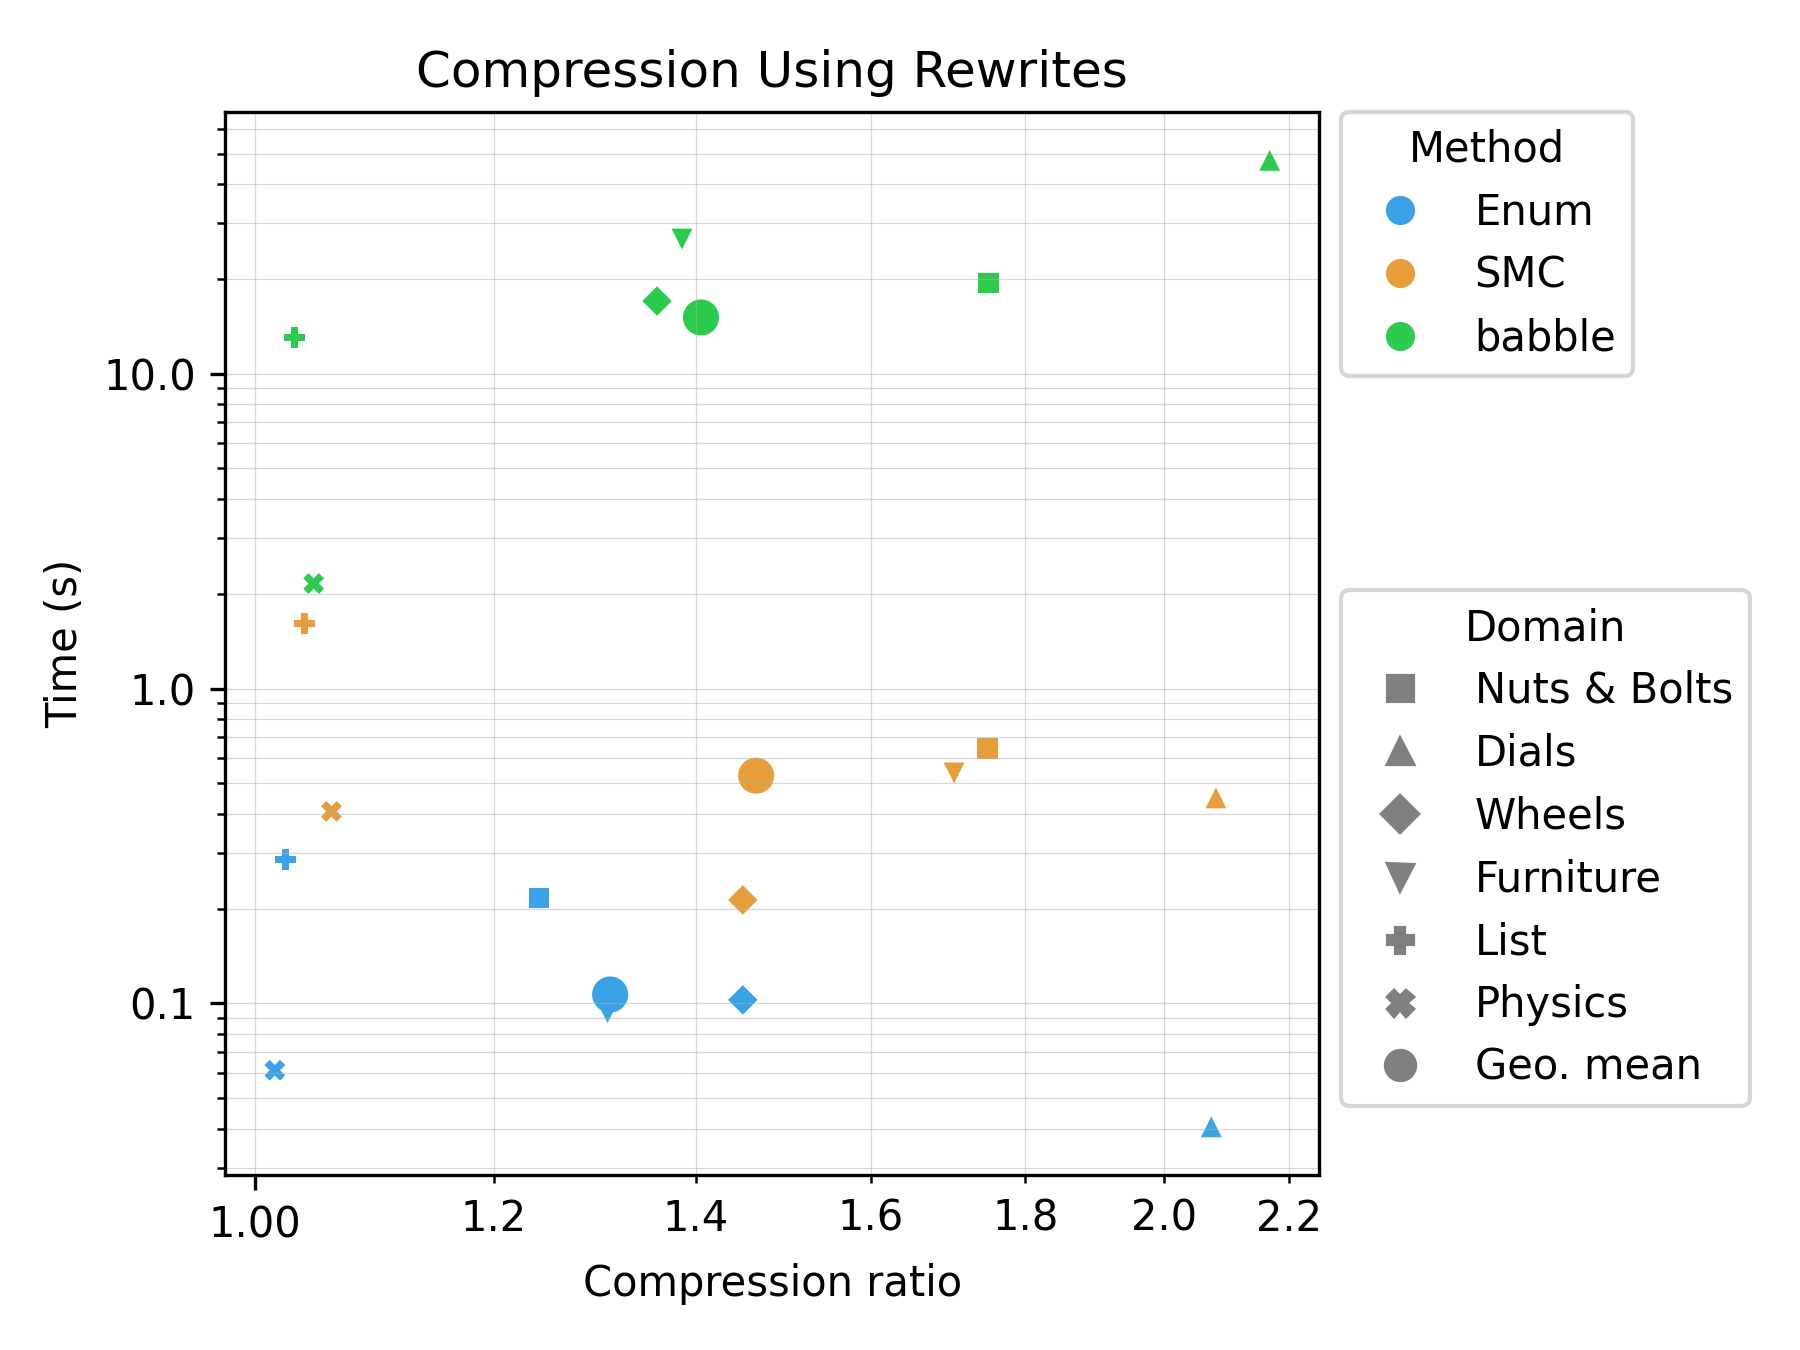
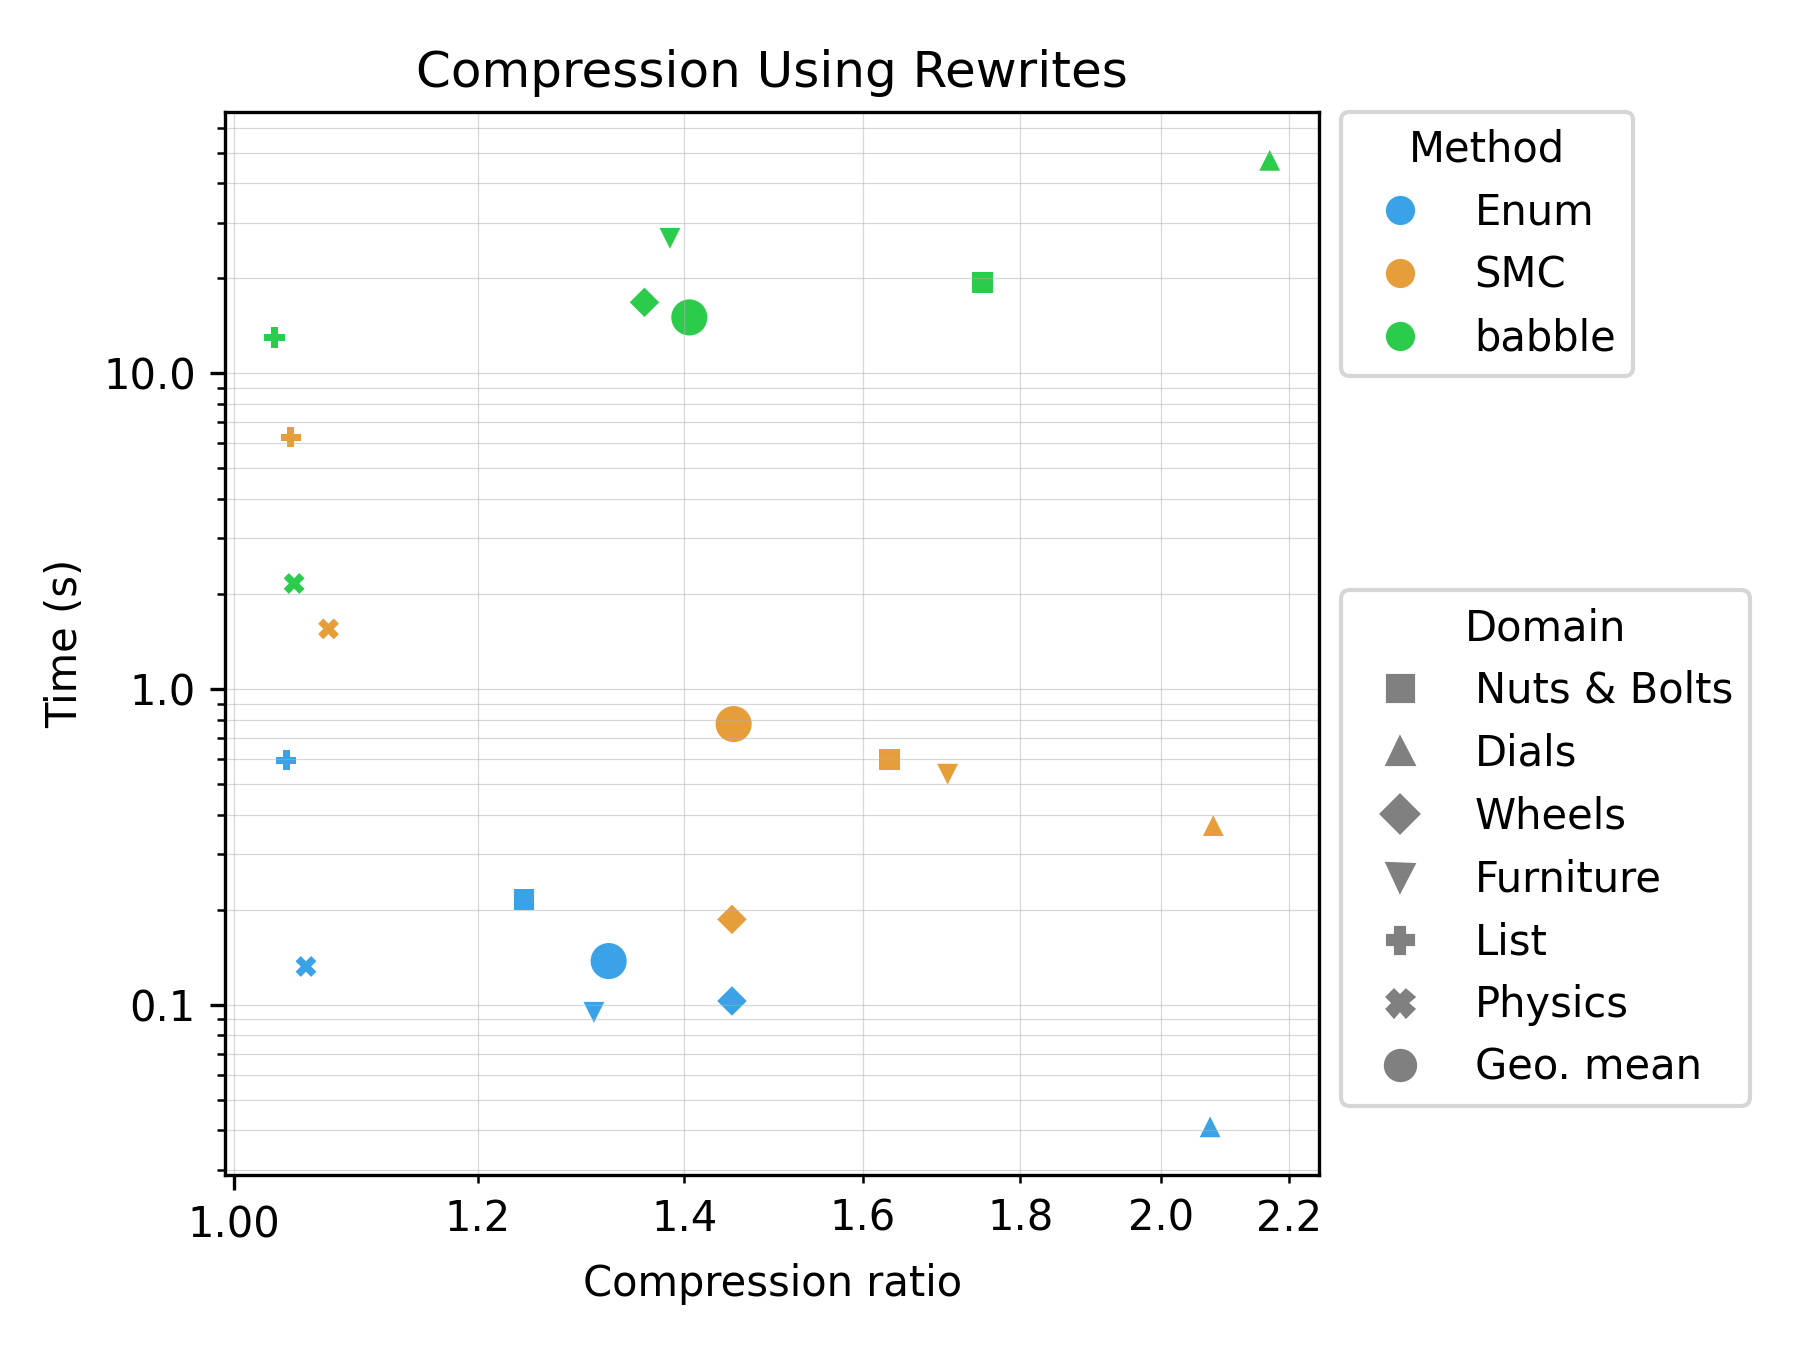
update tables

diff --git a/figures/table4.tex b/figures/table4.tex
@@ -1,4 +1,4 @@
-% source: /home/kavi/mit/egg-stitch/viz/results/table4/2026-05-10_19-51-56/table4.json
+% source: /home/kavi/mit/egg-stitch/viz/results/table4/2026-05-11_13-21-48/table4.json
 % Compression Without Rewrites, Stacked Abstractions: generated from results JSON
 \begin{tabular}{l r  rrrr rrrr}
 \toprule
@@ -6,16 +6,16 @@
 \cmidrule(lr){2-2} \cmidrule(lr){3-6} \cmidrule(lr){7-10}
 Domain & Original & Enum & SMC & babble & Stitch & Enum & SMC & babble & Stitch \\
 \midrule
-Nuts \& Bolts & 19008 & 1.66 & 13.70 & 9.40 & \textbf{14.86} & 0.801 & 1.960 & 14.235 & \textbf{0.098} \\
-Dials & 35712 & 5.17 & 6.27 & 5.62 & \textbf{7.94} & 0.731 & 5.737 & 77.206 & \textbf{0.462} \\
-Wheels & 35426 & 2.90 & \textbf{6.58} & 5.56 & 6.17 & 2.552 & 8.998 & 63.126 & \textbf{0.419} \\
-Furniture & 42935 & 3.26 & 6.21 & 4.02 & \textbf{6.64} & 1.792 & 11.160 & 128.018 & \textbf{0.586} \\
-List & 35621 & 1.05 & \textbf{1.15} & 1.09 & 1.14 & 1.944 & 20.561 & 154.953 & \textbf{1.247} \\
-Physics & 9387 & 1.05 & 1.39 & \textbf{1.43} & 1.37 & \textbf{0.152} & 5.326 & 13.322 & 0.278 \\
-Text & 29936 & 1.04 & \textbf{1.34} & 1.24 & 1.34 & 1.069 & 17.457 & 86.838 & \textbf{0.787} \\
-Logo & 11216 & 1.43 & \textbf{1.62} & 1.37 & 1.52 & 0.876 & 5.479 & 51.581 & \textbf{0.318} \\
-Towers & 9538 & 1.27 & \textbf{1.61} & 1.42 & 1.56 & 0.683 & 5.312 & 23.367 & \textbf{0.217} \\
+Nuts \& Bolts & 19008 & 1.66 & 13.58 & 9.40 & \textbf{14.86} & 0.802 & 2.072 & 14.136 & \textbf{0.098} \\
+Dials & 35712 & 5.17 & 6.30 & 5.62 & \textbf{7.94} & 0.724 & 5.824 & 76.335 & \textbf{0.450} \\
+Wheels & 35426 & 2.90 & \textbf{6.57} & 5.56 & 6.17 & 2.535 & 9.165 & 62.789 & \textbf{0.416} \\
+Furniture & 42935 & 3.26 & 6.29 & 4.02 & \textbf{6.64} & 1.768 & 10.935 & 127.143 & \textbf{0.585} \\
+List & 35621 & 1.12 & \textbf{1.15} & 1.09 & 1.14 & 5.141 & 81.618 & 154.130 & \textbf{1.244} \\
+Physics & 9387 & 1.27 & 1.41 & \textbf{1.43} & 1.37 & 1.032 & 20.729 & 13.127 & \textbf{0.273} \\
+Text & 29936 & 1.30 & \textbf{1.36} & 1.24 & 1.34 & 3.879 & 69.411 & 86.011 & \textbf{0.775} \\
+Logo & 11216 & 1.61 & \textbf{1.63} & 1.37 & 1.52 & 1.896 & 21.707 & 51.438 & \textbf{0.317} \\
+Towers & 9538 & 1.58 & \textbf{1.63} & 1.42 & 1.56 & 1.382 & 21.057 & 23.211 & \textbf{0.216} \\
 \midrule
-Geo. mean &  & 1.77 & 3.00 & 2.54 & \textbf{3.06} & 0.927 & 7.353 & 49.902 & \textbf{0.390} \\
+Geo. mean &  & 1.94 & 3.02 & 2.54 & \textbf{3.06} & 1.732 & 15.899 & 49.517 & \textbf{0.387} \\
 \bottomrule
 \end{tabular}

diff --git a/figures/table2.tex b/figures/table2.tex
@@ -1,4 +1,4 @@
-% source: /home/kavi/mit/egg-stitch/viz/results/table2/2026-05-10_18-08-52/table2.json
+% source: /home/kavi/mit/egg-stitch/viz/results/table2/2026-05-11_11-22-35/table2.json
 % Compression Without Rewrites: generated from results JSON
 \begin{tabular}{l r  rrrr rrrr}
 \toprule
@@ -6,16 +6,16 @@
 \cmidrule(lr){2-2} \cmidrule(lr){3-6} \cmidrule(lr){7-10}
 Domain & Original & Enum & SMC & babble & Stitch & Enum & SMC & babble & Stitch \\
 \midrule
-Nuts \& Bolts & 19008 & 1.29 & 1.68 & 1.67 & \textbf{1.77} & \textbf{0.035} & 0.138 & 3.659 & 0.044 \\
-Dials & 35712 & 1.22 & 1.23 & 1.26 & \textbf{1.26} & \textbf{0.066} & 0.255 & 18.165 & 0.108 \\
-Wheels & 35426 & 1.22 & \textbf{1.24} & 1.14 & \textbf{1.24} & \textbf{0.104} & 0.208 & 9.244 & 0.110 \\
-Furniture & 42935 & 1.15 & \textbf{1.38} & 1.25 & \textbf{1.38} & \textbf{0.112} & 0.639 & 22.910 & 0.150 \\
-List & 35621 & 1.02 & 1.04 & 1.03 & \textbf{1.04} & 0.248 & 1.420 & 12.260 & \textbf{0.199} \\
-Physics & 9387 & 1.02 & \textbf{1.05} & 1.04 & 1.04 & \textbf{0.050} & 0.370 & 1.570 & 0.055 \\
-Text & 29936 & 1.02 & 1.06 & 1.05 & \textbf{1.06} & 0.211 & 1.344 & 7.947 & \textbf{0.184} \\
-Logo & 11216 & 1.05 & 1.08 & 1.05 & \textbf{1.08} & 0.071 & 0.411 & 4.733 & \textbf{0.061} \\
-Towers & 9538 & 1.08 & 1.14 & 1.16 & \textbf{1.24} & 0.065 & 0.423 & 2.680 & \textbf{0.055} \\
+Nuts \& Bolts & 19008 & 1.29 & 1.68 & 1.67 & \textbf{1.77} & \textbf{0.035} & 0.136 & 3.659 & 0.044 \\
+Dials & 35712 & 1.22 & 1.23 & 1.26 & \textbf{1.26} & \textbf{0.068} & 0.246 & 18.486 & 0.112 \\
+Wheels & 35426 & 1.22 & \textbf{1.24} & 1.14 & \textbf{1.24} & \textbf{0.104} & 0.207 & 9.221 & 0.110 \\
+Furniture & 42935 & 1.15 & \textbf{1.38} & 1.25 & \textbf{1.38} & \textbf{0.111} & 0.626 & 22.853 & 0.152 \\
+List & 35621 & 1.04 & 1.04 & 1.03 & \textbf{1.04} & 0.531 & 5.623 & 12.255 & \textbf{0.202} \\
+Physics & 9387 & 1.05 & \textbf{1.06} & 1.04 & 1.04 & 0.108 & 1.444 & 1.576 & \textbf{0.055} \\
+Text & 29936 & 1.05 & \textbf{1.06} & 1.05 & 1.06 & 0.412 & 5.312 & 7.996 & \textbf{0.184} \\
+Logo & 11216 & \textbf{1.09} & 1.08 & 1.05 & 1.08 & 0.184 & 1.603 & 4.729 & \textbf{0.060} \\
+Towers & 9538 & 1.18 & 1.17 & 1.16 & \textbf{1.24} & 0.175 & 1.665 & 2.642 & \textbf{0.055} \\
 \midrule
-Geo. mean &  & 1.11 & 1.20 & 1.17 & \textbf{1.22} & \textbf{0.088} & 0.437 & 6.703 & 0.093 \\
+Geo. mean &  & 1.14 & 1.20 & 1.17 & \textbf{1.22} & 0.140 & 0.926 & 6.708 & \textbf{0.094} \\
 \bottomrule
 \end{tabular}

diff --git a/figures/table3.tex b/figures/table3.tex
@@ -1,4 +1,4 @@
-% source: /home/kavi/mit/egg-stitch/viz/results/table3/2026-05-10_18-24-44/table3.json
+% source: /home/kavi/mit/egg-stitch/viz/results/table3/2026-05-11_11-40-36/table3.json
 % Compression Using Rewrites, Stacked Abstractions: generated from results JSON
 \begin{tabular}{l r r rrrr rrrr}
 \toprule
@@ -6,13 +6,13 @@
 \cmidrule(lr){2-3} \cmidrule(lr){4-7} \cmidrule(lr){8-11}
 Domain & Original & E-graph min & Enum & SMC & babble & Stitch & Enum & SMC & babble & Stitch \\
 \midrule
-Nuts \& Bolts & 19008 & 19009 & 12.13 & \textbf{14.08} & 11.76 & N/A & \textbf{0.835} & 11.638 & 33.984 & N/A \\
-Dials & 35712 & 20583 & 6.96 & \textbf{9.15} & 8.37 & N/A & \textbf{0.484} & 4.675 & 71.971 & N/A \\
-Wheels & 35426 & 30257 & 1.91 & \textbf{8.07} & 6.68 & N/A & \textbf{1.145} & 6.952 & 63.205 & N/A \\
-Furniture & 42935 & 37028 & 3.33 & \textbf{6.65} & 4.40 & N/A & \textbf{1.551} & 11.003 & 102.981 & N/A \\
-List & 35621 & 35592 & 1.05 & \textbf{1.15} & 1.09 & N/A & \textbf{2.271} & 21.515 & 162.777 & N/A \\
-Physics & 9387 & 9405 & 1.06 & 1.40 & \textbf{1.42} & N/A & \textbf{0.203} & 5.669 & 17.451 & N/A \\
+Nuts \& Bolts & 19008 & 19009 & 12.13 & \textbf{14.04} & 11.76 & N/A & \textbf{0.830} & 11.376 & 34.008 & N/A \\
+Dials & 35712 & 20583 & 6.96 & \textbf{9.00} & 8.37 & N/A & \textbf{0.486} & 4.660 & 72.031 & N/A \\
+Wheels & 35426 & 30257 & 1.91 & \textbf{7.80} & 6.68 & N/A & \textbf{1.143} & 6.928 & 63.107 & N/A \\
+Furniture & 42935 & 37028 & 3.33 & \textbf{6.57} & 4.40 & N/A & \textbf{1.551} & 11.047 & 102.687 & N/A \\
+List & 35621 & 35592 & 1.12 & \textbf{1.16} & 1.09 & N/A & \textbf{5.782} & 85.097 & 162.375 & N/A \\
+Physics & 9387 & 9405 & 1.27 & 1.42 & \textbf{1.42} & N/A & \textbf{1.250} & 22.383 & 17.559 & N/A \\
 \midrule
-Geo. mean &  &  & 2.90 & \textbf{4.72} & 4.06 & N/A & \textbf{0.831} & 8.931 & 59.689 & N/A \\
+Geo. mean &  &  & 3.02 & \textbf{4.69} & 4.06 & N/A & \textbf{1.315} & 14.061 & 59.697 & N/A \\
 \bottomrule
 \end{tabular}

diff --git a/figures/table1.tex b/figures/table1.tex
@@ -1,4 +1,4 @@
-% source: /home/kavi/mit/egg-stitch/viz/results/table1/2026-05-10_17-46-36/table1.json
+% source: /home/kavi/mit/egg-stitch/viz/results/table1/2026-05-11_10-59-26/table1.json
 % Compression Using Rewrites: generated from results JSON
 \begin{tabular}{l r r rrrr rrrr}
 \toprule
@@ -6,13 +6,13 @@
 \cmidrule(lr){2-3} \cmidrule(lr){4-7} \cmidrule(lr){8-11}
 Domain & Original & E-graph min & Enum & SMC & babble & Stitch & Enum & SMC & babble & Stitch \\
 \midrule
-Nuts \& Bolts & 19008 & 19009 & 1.24 & 1.75 & \textbf{1.75} & N/A & \textbf{0.216} & 0.646 & 19.392 & N/A \\
-Dials & 35712 & 20583 & 2.07 & 2.08 & \textbf{2.17} & N/A & \textbf{0.041} & 0.450 & 47.570 & N/A \\
-Wheels & 35426 & 30257 & \textbf{1.45} & \textbf{1.45} & 1.36 & N/A & \textbf{0.103} & 0.213 & 16.998 & N/A \\
-Furniture & 42935 & 37028 & 1.31 & \textbf{1.70} & 1.39 & N/A & \textbf{0.094} & 0.539 & 26.745 & N/A \\
-List & 35621 & 35592 & 1.02 & \textbf{1.04} & 1.03 & N/A & \textbf{0.286} & 1.610 & 13.002 & N/A \\
-Physics & 9387 & 9405 & 1.02 & \textbf{1.06} & 1.05 & N/A & \textbf{0.061} & 0.407 & 2.156 & N/A \\
+Nuts \& Bolts & 19008 & 19009 & 1.24 & 1.63 & \textbf{1.75} & N/A & \textbf{0.215} & 0.599 & 19.376 & N/A \\
+Dials & 35712 & 20583 & 2.07 & 2.08 & \textbf{2.17} & N/A & \textbf{0.041} & 0.369 & 47.352 & N/A \\
+Wheels & 35426 & 30257 & \textbf{1.45} & \textbf{1.45} & 1.36 & N/A & \textbf{0.103} & 0.186 & 16.802 & N/A \\
+Furniture & 42935 & 37028 & 1.31 & \textbf{1.70} & 1.39 & N/A & \textbf{0.095} & 0.537 & 26.808 & N/A \\
+List & 35621 & 35592 & 1.04 & \textbf{1.04} & 1.03 & N/A & \textbf{0.596} & 6.289 & 13.017 & N/A \\
+Physics & 9387 & 9405 & 1.06 & \textbf{1.07} & 1.05 & N/A & \textbf{0.132} & 1.551 & 2.160 & N/A \\
 \midrule
-Geo. mean &  &  & 1.31 & \textbf{1.47} & 1.41 & N/A & \textbf{0.107} & 0.529 & 15.079 & N/A \\
+Geo. mean &  &  & 1.32 & \textbf{1.45} & 1.41 & N/A & \textbf{0.137} & 0.775 & 15.050 & N/A \\
 \bottomrule
 \end{tabular}
